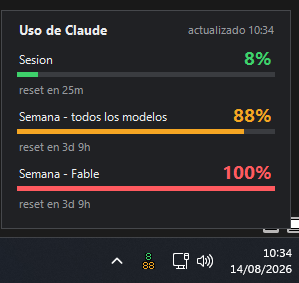
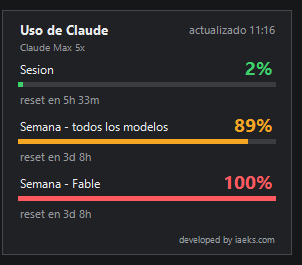
docs: document the wizard, unsupported setups and author links
Adds a table of situations where the app cannot work and what the
installer does about each, a walkthrough of the eight wizard steps with
the abort paths drawn out, the plan detection table, and the command-line
flags.

Re-runs the verification greps against the refactored source so the
'check this yourself' section still matches reality, and refreshes the
panel screenshot to show the plan line and the footer.

diff --git a/README.md b/README.md
@@ -31,9 +31,26 @@ Right: one left-click opens the panel with every limit and its reset countdown.<
 | Windows PowerShell 5.1 | Ships with Windows — nothing to install |
 | .NET Framework 4.8 | Ships with Windows — nothing to install |
 | Claude Code installed and logged in | The app reads the credential Claude Code already stores |
+| A Claude **Pro** or **Max** subscription | The usage endpoint only exists for subscription quotas |
 
 There are **zero third-party dependencies**. No pip, no npm, no NuGet, no vendored
-binaries. The whole app is five plain-text scripts you can read in one sitting.
+binaries. The whole app is a handful of plain-text scripts you can read in one sitting.
+
+The installer speaks **English and Spanish**, picks the right one from your Windows
+UI language, and you can switch it any time from the tray menu.
+
+### Where it will not work
+
+Being upfront about this, because the installer refuses to install rather than
+leaving you with a permanently grey icon:
+
+| Situation | Why | Installer behaviour |
+|---|---|---|
+| **API key, Bedrock or Vertex** instead of a subscription | Those are billed per token and have no session or weekly quota. There is nothing to display. | Detects it, explains it, aborts |
+| **Claude Code inside WSL** | The credential lives in the Linux filesystem; a Windows process cannot reach it. | Detects "not signed in", aborts |
+| **AppLocker / Constrained Language Mode** | The app needs `Add-Type` with `DllImport` to draw the icon, which that mode forbids. | Detects it, aborts |
+| **Group policy forcing `AllSigned`** | `-ExecutionPolicy Bypass` cannot override a machine policy. | Warns, and points you at `trust.cmd` |
+| **Anything that is not Windows** | WinForms and Windows PowerShell 5.1. | — |
 
 ---
 
@@ -52,6 +69,7 @@ flowchart LR
             VBS["launch.vbs<br/><i>hidden-window launcher</i>"]
             TRAY["tray.ps1<br/><i>the whole app</i>"]
             CFG["config.json<br/><i>your settings</i>"]
+            LIB["lib\\i18n.ps1 · lib\\plan.ps1<br/><i>strings + plan detection</i>"]
         end
 
         RUN["🔑 HKCU\\...\\CurrentVersion\\Run<br/>ClaudeUsageTray<br/><i>the only registry write</i>"]
@@ -71,6 +89,7 @@ flowchart LR
     RUN -->|at logon| VBS
     VBS --> TRAY
     CFG --> TRAY
+    LIB --> TRAY
     CRED -.->|read only| TRAY
     TRAY -->|"HTTPS · Bearer token · read-only GET"| API
     API -->|"limits[] JSON"| TRAY
@@ -92,59 +111,122 @@ your own profile. One registry value, two state files, one outbound request.
 
 ## Install
 
-**Double-click `install.cmd`. That is the entire installation.**
+**Double-click `install.cmd`.** No administrator rights, no UAC prompt, no MSI, no
+elevation at any point. The wizard walks you through eight steps, shows you exactly
+what it found and what it is about to do, and asks for **one** confirmation before
+touching anything.
 
-To be explicit about what that means, because it matters:
+The important part: it tells you what it found *before* it writes anything, and it
+refuses to install on a machine where the app cannot work.
 
-- It does **not** require administrator rights.
-- It does **not** ask you any questions or show any prompts.
-- It does **not** run an installer, MSI, or setup wizard.
-- It does **not** write to `Program Files`, `HKLM`, `ProgramData`, or any other
-  user's profile.
-- When it finishes, the app is already running *and* already registered to start
-  at your next logon. There is no second step.
+```
+  Claude Usage Tray - Setup
+  Shows your Claude quota in the Windows notification area
+  --------------------------------------------------------------
 
-What `install.cmd` actually does, in order (see `setup.ps1`, ~140 readable lines):
+  [1/8] Language
+      Detected system language: Espanol
+      Press E for English, S for Spanish, or Enter to keep it
 
-1. **Pins the folder** so OneDrive keeps the files on local disk (`attrib +P -U`).
-   Without this, Files On-Demand could leave a cloud placeholder that Windows
-   cannot start at logon.
-2. **Removes the Mark-of-the-Web** (`Unblock-File`) from the folder's files, which
-   is what would otherwise make Windows treat synced scripts as untrusted.
-3. **Trusts the signing certificate** — *only if* a `ClaudeUsageTray.cer` sits next
-   to the scripts, i.e. only if you generated one yourself with `trust.cmd`. A
-   fresh clone from GitHub has no `.cer`, so this step is skipped entirely.
-4. **Registers autostart** under
-   `HKCU\Software\Microsoft\Windows\CurrentVersion\Run` → `ClaudeUsageTray`,
-   pointing at `launch.vbs` (which starts PowerShell with a hidden window).
-5. **Probes the API once** (`tray.ps1 -Once`) and prints the result, so a failure
-   is visible immediately rather than as a silent missing icon.
-6. **Starts the tray icon.**
+  [2/8] What this app does
+      - Draws your session and weekly Claude usage into a 16x16 tray icon.
+      - Reads the OAuth token Claude Code already stored on this account.
+      - Calls exactly one address: api.anthropic.com. Nothing else, ever.
+      - No admin rights, no service, no telemetry, no third-party code.
+
+  [3/8] Checking this machine
+      Windows version            10.0.26200
+      Windows PowerShell         5.1.26100.8875
+      Language mode              FullLanguage
+      Execution policy           Bypass
+      App files                  ok
+
+  [4/8] Your Claude plan
+      Detected: Claude Max 5x
+      Rate limit tier: default_claude_max_5x
+
+      Quota limits are read from this subscription.
+
+  [5/8] Where it will be installed
+      From    D:\Downloads\claudeUsageWindows
+      To      C:\Users\you\AppData\Local\Programs\ClaudeUsageTray
+
+      You can delete the source folder afterwards.
+      Cache and log              C:\Users\you\AppData\Local\ClaudeUsageTray
+      Autostart                  HKCU\...\Run\ClaudeUsageTray
+
+  [6/8] What it will touch
+      It writes
+        + ...\Programs\ClaudeUsageTray
+        + ...\Local\ClaudeUsageTray
+        + HKCU\...\CurrentVersion\Run\ClaudeUsageTray
+
+      It never touches
+        - HKLM or any machine-wide setting
+        - Program Files, ProgramData, System32
+        - Any other user account on this PC
+        - Any host other than api.anthropic.com
+
+      Press Enter to install, or Ctrl+C to cancel
+
+  [7/8] Installing ...
+  [8/8] Testing the connection ...
+```
+
+### Which plan you are on
+
+Step 4 is not decoration. The app reads `rateLimitTier` out of the credential file
+Claude Code already wrote and tells you which subscription these numbers belong to:
+
+| `rateLimitTier` contains | Shown as |
+|---|---|
+| `pro` | Claude Pro |
+| `max_5x` | Claude Max 5x |
+| `max_20x` | Claude Max 20x |
+| something unrecognised | falls back to `subscriptionType`, never invents a name |
+| no credential at all | *not signed in* — install aborts |
+| an API-key environment | *API key (no quota)* — install aborts |
+
+The same line appears under the title in the detail panel, so you always know which
+plan the percentages refer to. It is read locally and costs no extra request.
 
 ```mermaid
 flowchart TD
-    A["👆 Double-click install.cmd"] --> B["powershell -File setup.ps1 -Install"]
-    B --> C["1 · Pin folder on disk<br/><code>attrib +P -U</code><br/><i>beats OneDrive Files On-Demand</i>"]
-    C --> D["2 · Strip Mark-of-the-Web<br/><code>Unblock-File</code>"]
-    D --> E{"3 · ClaudeUsageTray.cer<br/>present in folder?"}
-    E -->|"No — the normal case,<br/>a fresh clone has none"| G
-    E -->|"Yes — only if YOU ran trust.cmd"| F["Trust cert in<br/>CurrentUser store"]
-    F --> G["4 · Write HKCU Run value<br/><i>→ wscript launch.vbs</i>"]
-    G --> H["5 · Probe API once<br/><code>tray.ps1 -Once</code>"]
-    H --> I{"API answered?"}
-    I -->|Yes| J["✅ prints your real numbers"]
-    I -->|No| K["⚠ prints the reason<br/><i>install still succeeds</i>"]
-    J --> L["6 · Start tray icon"]
-    K --> L
-    L --> M["🟢 Done — running now<br/>AND set for next logon"]
+    A["👆 Double-click install.cmd"] --> B["Detect language<br/><i>Get-UICulture</i>"]
+    B --> C["Preflight<br/><i>OS · PowerShell · language mode · policy</i>"]
+    C -->|"Constrained Language Mode"| X1["🛑 Abort — nothing written"]
+    C --> D["Read rateLimitTier<br/><i>from .credentials.json</i>"]
+    D -->|"API key / Bedrock / Vertex"| X2["🛑 Abort — no quota to show"]
+    D -->|"no credential (or WSL)"| X3["🛑 Abort — not signed in"]
+    D -->|"Pro / Max 5x / Max 20x"| E["Show source → destination"]
+    E --> F["Show what it writes<br/>and what it never touches"]
+    F --> G{"Enter to continue"}
+    G --> H["Copy files · strip Mark-of-the-Web<br/>pin in OneDrive only if applicable"]
+    H --> I["Write HKCU Run value"]
+    I --> J["Probe the API once<br/><code>tray.ps1 -Once</code>"]
+    J --> K["🟢 Running now AND set for next logon"]
 
     style A fill:#1a3a1a,stroke:#3ED16B,color:#fff
-    style M fill:#1a3a1a,stroke:#3ED16B,color:#fff
-    style K fill:#4a3a1a,stroke:#F5A623,color:#fff
+    style K fill:#1a3a1a,stroke:#3ED16B,color:#fff
+    style X1 fill:#2a1416,stroke:#FF5A5F,color:#fff
+    style X2 fill:#2a1416,stroke:#FF5A5F,color:#fff
+    style X3 fill:#2a1416,stroke:#FF5A5F,color:#fff
 ```
 
-No step in that chart requests elevation, opens a dialog, or contacts any host
-other than `api.anthropic.com` in step 5.
+Every abort path leaves the machine exactly as it found it: no files copied, no
+registry value written.
+
+### Command-line flags
+
+| Command | What it does |
+|---|---|
+| `install.cmd` | The full wizard |
+| `install.cmd /silent` | No questions, no pauses — still prints everything |
+| `install.cmd /repair` | Re-runs the checks and rewrites autostart. **Use this first whenever anything misbehaves.** |
+| `install.cmd /inplace` | Runs from the current folder instead of copying it — for folders synced across your own machines |
+| `install.cmd /en` · `/es` | Force a language |
+
+Flags combine: `install.cmd /silent /en`.
 
 If you do not see the icon, it is in the hidden-icons flyout (the `^` arrow next to
 the clock). Drag it out to pin it to the taskbar.
@@ -152,8 +234,8 @@ the clock). Drag it out to pin it to the taskbar.
 ### Uninstall
 
 Double-click **`uninstall.cmd`**. It stops the process and deletes the `HKCU` Run
-value. It intentionally leaves your files and the local cache in place; delete
-`%LOCALAPPDATA%\ClaudeUsageTray` yourself if you want them gone.
+value, then tells you where the files and the cache still are so you can delete them
+yourself.
 
 Uninstalling is genuinely complete: one registry value under your own user hive and
 one process. Nothing else was ever created.
@@ -303,9 +385,10 @@ flowchart LR
 ```
 
 **Network:** exactly one outbound host, `api.anthropic.com`, one endpoint,
-`GET /api/oauth/usage`, TLS 1.2. `grep -i 'http' tray.ps1` returns that single URL
-and nothing else. There is no update server, no analytics, no crash reporter, no
-"phone home".
+`GET /api/oauth/usage`, TLS 1.2. There is no update server, no analytics, no crash
+reporter, no "phone home". The only other URL anywhere in the source is the
+`iaeks.com` credit at the bottom of the panel, which does nothing until *you* click
+it and then just opens your browser.
 
 **Your token:**
 - read inside an isolated background runspace, used for one request, discarded;
@@ -342,22 +425,25 @@ Do not trust the diagrams. Trust the output of these commands, run in the app
 folder:
 
 ```powershell
-# Every URL in the app. Expect exactly one line: api.anthropic.com
-Select-String -Path *.ps1,*.vbs,*.cmd -Pattern 'https?://'
+# Every URL in the app. Two hits, and only one of them is a network call:
+# the usage endpoint, plus the credit link the panel opens in YOUR browser
+# when you click it.
+Select-String -Path *.ps1,lib\*.ps1,*.vbs,*.cmd -Pattern 'https?://'
 
-# Any elevation or machine-wide write? The only hit is the comment in
-# setup.ps1 line 8 saying it never does one.
-Select-String -Path *.ps1,*.vbs,*.cmd -Pattern 'RunAs|HKLM|ProgramData|Program Files'
+# Any elevation or machine-wide write? Every hit is a comment or a UI string
+# stating that it never does one. No RunAs, no manifest, no HKLM write.
+Select-String -Path *.ps1,lib\*.ps1,*.vbs,*.cmd -Pattern 'RunAs|HKLM|ProgramData|Program Files'
 
-# Everywhere the token appears. Two hits: a null check, and the Authorization
-# header. Nowhere else.
-Select-String -Path tray.ps1 -Pattern 'accessToken'
+# Everywhere the token appears. Three hits: two null checks and the
+# Authorization header. Nowhere else — not the log, not the cache.
+Select-String -Path *.ps1,lib\*.ps1 -Pattern 'accessToken'
 
-# Every write to disk or registry in the whole app. Seven hits, all accounted for:
-#   setup.ps1:122  HKCU Run value          tray.ps1:851  same value, from the menu toggle
-#   tray.ps1:92/94 tray.log                tray.ps1:285  last.json cache
-#   tray.ps1:873   your config.json        trust.ps1:83  the optional .cer you generate
-Select-String -Path *.ps1 -Pattern 'Set-Content|Add-Content|Out-File|New-ItemProperty|WriteAllBytes'
+# Every write to disk or registry in the whole app:
+#   setup.ps1   HKCU Run value, and the install-time file copies
+#   tray.ps1    tray.log, last.json cache, config.json, the Run value again
+#               (the "Start with Windows" toggle)
+#   trust.ps1   the optional .cer you generate yourself
+Select-String -Path *.ps1,lib\*.ps1 -Pattern 'Set-Content|Add-Content|Out-File|New-ItemProperty|WriteAllBytes|Copy-Item'
 ```
 
 Then watch it on the wire if you want: the app makes one TLS request every
@@ -383,6 +469,7 @@ back into this file.
 ```jsonc
 {
   "pollSeconds": 900,      // refresh interval; clamped to a 15 s minimum
+  "language": "auto",      // "auto" follows Windows; "en" or "es" pin it
   "autoUpdate": true,      // restart itself when tray.ps1 changes on disk
   "warnPercent": 80,       // icon turns amber at this usage
   "critPercent": 95,       // icon turns red at this usage
@@ -409,11 +496,13 @@ Dropbox, a network share) propagates your own edits without manual restarts.
 | File | Purpose |
 |---|---|
 | `tray.ps1` | The whole app: fetch, icon rendering, detail panel, menu, timers |
+| `lib\i18n.ps1` | English and Spanish string tables, shared by the app and the installer |
+| `lib\plan.ps1` | Plan detection. Reads plan metadata only — never the token |
 | `launch.vbs` | Starts `tray.ps1` with no console window flash |
-| `install.cmd` → `setup.ps1 -Install` | One-click install (no admin, no prompts) |
+| `install.cmd` → `setup.ps1 -Install` | The wizard (no admin, one confirmation) |
 | `uninstall.cmd` → `setup.ps1 -Uninstall` | Stops it and removes autostart |
 | `trust.cmd` → `trust.ps1` | **Optional** local code signing |
-| `config.json` | Settings and colours |
+| `config.json` | Settings, language and colours |
 
 ### Debugging
 
@@ -433,13 +522,18 @@ shortcut to open it.
 
 ### Troubleshooting
 
+**When in doubt, run `install.cmd /repair`.** It re-runs every check, re-reports
+your plan, rewrites the autostart entry and restarts the app — without copying
+anything or changing your settings. It is the single diagnostic entry point.
+
 | Symptom | Cause / fix |
 |---|---|
 | Icon is grey | Data is stale. Open the panel — the reason is at the bottom. |
-| `no-credentials` | Claude Code has not been logged in on this account. |
-| `token-expired` | Open Claude Code once. The app will not refresh the token by design. |
+| `sign in to Claude Code` | No credential for this Windows account. Run `/repair` to see what was detected. |
+| `credential expired` | Open Claude Code once. The app will not refresh the token by design. |
 | No icon at all | Check the hidden-icons flyout; then check `tray.log`. |
-| Nothing starts at logon | Confirm `HKCU\...\Run\ClaudeUsageTray` exists; re-run `install.cmd`. |
+| Nothing starts at logon | `install.cmd /repair` rewrites `HKCU\...\Run\ClaudeUsageTray`. |
+| Labels show as `menu.exit`, `reset.days`… | `lib\i18n.ps1` is missing. Re-run `install.cmd`. |
 
 ---
 
@@ -467,3 +561,17 @@ the icon greys out and the app keeps failing harmlessly.
 
 MIT. Free to use, copy, modify, and redistribute, commercially or otherwise. See
 [`LICENSE`](LICENSE). Provided as-is, with no warranty.
+
+---
+
+## Author
+
+Built by **Edvard KS**.
+
+- **[iaeks.com](https://iaeks.com)** — AI engineering and automation
+- **[edvardks.com](https://edvardks.com)** — everything else
+
+Issues and pull requests are welcome. If this saved you from hitting a limit
+mid-sprint, a ⭐ on the repo is the cheapest way to say so.
+
+<p align="center"><sub>developed by <a href="https://iaeks.com">iaeks.com</a></sub></p>
